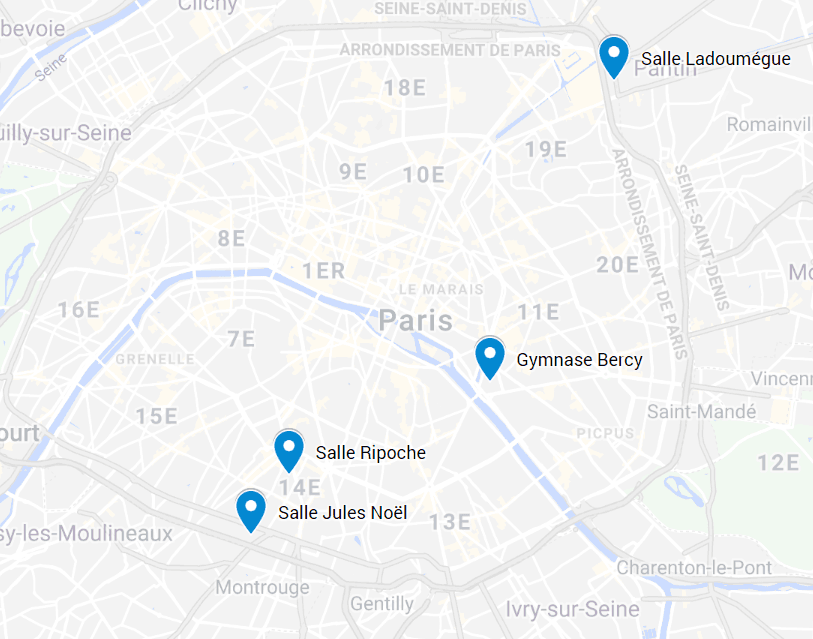
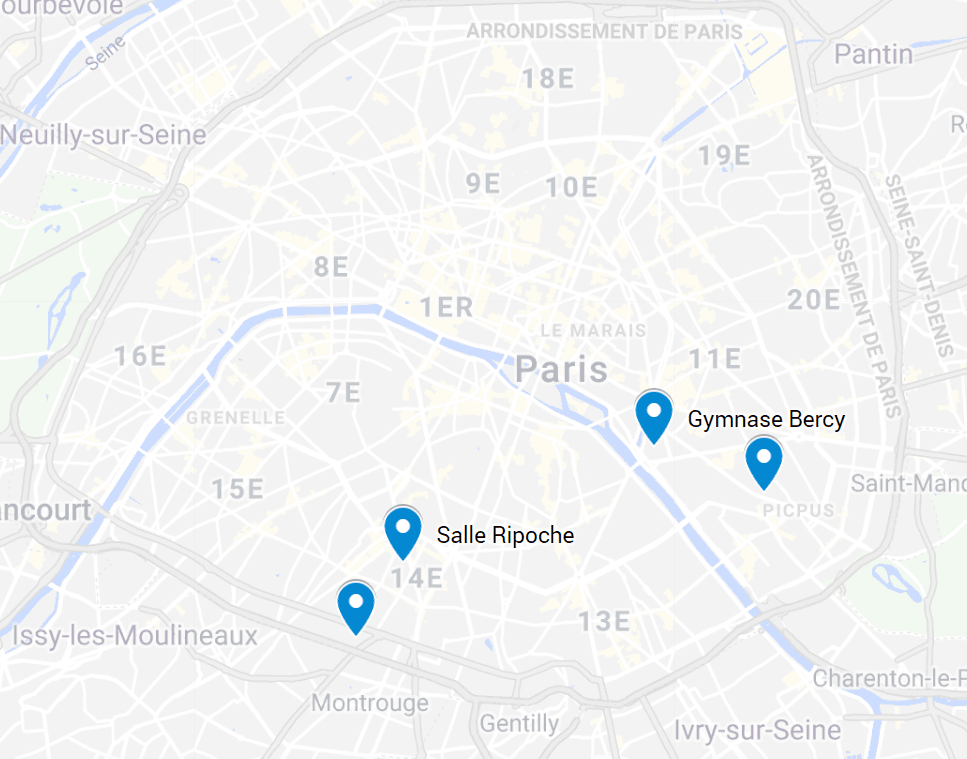
cms: fix new season 2019-2020

diff --git a/src/pages/salles.js b/src/pages/salles.js
@@ -18,9 +18,8 @@ import picJulesnoel02 from '../assets/images/salles/julesnoel-02.jpg'
 import picRipoche01 from '../assets/images/salles/ripoche-01.jpg'
 import picRipoche02 from '../assets/images/salles/ripoche-02.jpg'
 import picRipoche03 from '../assets/images/salles/ripoche-03.jpg'
-import picLadoumegue01 from '../assets/images/salles/ladoumegue-01.jpg'
-import picLadoumegue02 from '../assets/images/salles/ladoumegue-02.jpg'
-import picLadoumegue03 from '../assets/images/salles/ladoumegue-03.jpg'
+import picReuilly01 from '../assets/images/salles/reuilly-01.jpg'
+import picReuilly02 from '../assets/images/salles/reuilly-02.jpg'
 
 import thumbBercy01 from '../assets/images/salles/thumb/bercy-01.jpg'
 import thumbBercy02 from '../assets/images/salles/thumb/bercy-02.jpg'
@@ -29,9 +28,8 @@ import thumbJulesnoel02 from '../assets/images/salles/thumb/julesnoel-02.jpg'
 import thumbRipoche01 from '../assets/images/salles/thumb/ripoche-01.jpg'
 import thumbRipoche02 from '../assets/images/salles/thumb/ripoche-02.jpg'
 import thumbRipoche03 from '../assets/images/salles/thumb/ripoche-03.jpg'
-import thumbLadoumegue01 from '../assets/images/salles/thumb/ladoumegue-01.jpg'
-import thumbLadoumegue02 from '../assets/images/salles/thumb/ladoumegue-02.jpg'
-import thumbLadoumegue03 from '../assets/images/salles/thumb/ladoumegue-03.jpg'
+import thumbReuilly01 from '../assets/images/salles/thumb/reuilly-01.jpg'
+import thumbReuilly02 from '../assets/images/salles/thumb/reuilly-02.jpg'
 
 const BERCY_IMAGES = [
   {id: 'bercy01', src: picBercy01, thumbnail: thumbBercy01},
@@ -49,10 +47,9 @@ const RIPOCHE_IMAGES = [
   {id: 'ripoche03', src: picRipoche03, thumbnail: thumbRipoche03},
 ];
 
-const LADOUMEGUE_IMAGES = [
-  {id: 'ladoumegue01', src: picLadoumegue01, thumbnail: thumbLadoumegue01},
-  {id: 'ladoumegue02', src: picLadoumegue02, thumbnail: thumbLadoumegue02},
-  {id: 'ladoumegue03', src: picLadoumegue03, thumbnail: thumbLadoumegue03},
+const REUILLY_IMAGES = [
+  {id: 'reuilly01', src: picReuilly01, thumbnail: thumbReuilly01},
+  {id: 'reuilly02', src: picReuilly02, thumbnail: thumbReuilly02},
 ];
 
 class Salles extends React.Component {
@@ -99,18 +96,18 @@ class Salles extends React.Component {
           thumbnail,
         }))
       }, {
-        id: 'ladoumegue',
-        name: 'Ladoumègue',
-        street: '39 route des Petits Ponts 75019 Paris',
-        zipCode: '75010',
-        city: 'PARIS',
-        transport: 'Hoche (ligne 5) ou Tramway T3b Delphine Seyrig',
-        googleMaps: 'https://www.google.com/maps/embed?pb=!1m18!1m12!1m3!1d2623.190508594432!2d2.394769315675603!3d48.89270637929095!2m3!1f0!2f0!3f0!3m2!1i1024!2i768!4f13.1!3m3!1m2!1s0x47e66db4611a10a9%3A0xd213a1da1d00916f!2s39+Route+des+Petits+Ponts%2C+75019+Paris!5e0!3m2!1sfr!2sfr!4v1564334195927!5m2!1sfr!2sfr',
-        images: LADOUMEGUE_IMAGES.map(({id, src, thumbnail}) => ({
-          src,
-          thumbnail,
-        }))
-      }];
+      id: 'reuilly',
+      name: 'Reuilly diderot',
+      street: '43 Allée Vivaldi',
+      zipCode: '75012',
+      city: 'PARIS',
+      transport: 'Ligne 6 Métro Dugommier ou Ligne 8 Métro Montgallet',
+      googleMaps: 'https://www.google.com/maps/embed?pb=!1m18!1m12!1m3!1d2625.8658238825124!2d2.3865663145800498!3d48.84169797928585!2m3!1f0!2f0!3f0!3m2!1i1024!2i768!4f13.1!3m3!1m2!1s0x47e6726cc5d410cd%3A0x33802cac89a6ed60!2s43+All%C3%A9e+Vivaldi%2C+75012+Paris-12E-Arrondissement!5e0!3m2!1sfr!2sfr!4v1532900237396',
+      images: REUILLY_IMAGES.map(({id, src, thumbnail}) => ({
+        src,
+        thumbnail,
+      }))
+    }];
   }
 
   _handleWaypointEnter = () => {
@@ -144,12 +141,12 @@ class Salles extends React.Component {
             <header className="major">
               <h1>Les salles</h1>
               <p>
-                Voici les adresses des différentes salles parisiennes (dans le 12ème / 14ème / 20ème),
-                permet de pratiquer la Savate Boxe Française.
+                Voici les adresses des différentes salles parisiennes (dans le 12ème / 14ème),
+                pour  pratiquer la Savate Boxe Française avec nous.
               </p>
-              <p>
-                <span className="image main"><img src={picSalles} alt="salles"/></span>
-              </p>
+              <div className="map-responsive">
+                <iframe src="https://www.google.com/maps/d/u/0/embed?mid=17caxVnwoGG92sTQfPtVU9MuD6ett4Jdt" width="640" height="480"></iframe>
+              </div>
             </header>
 
             <SallesSwipe salles={this.salles}/>

diff --git a/src/pages/planning.js b/src/pages/planning.js
@@ -84,6 +84,10 @@ class Planning extends React.Component {
                 de la séance pour vous changer.
               </p>
 
+              <p>
+                <span><img className="image main" src={picHoraires} alt="horaires"/></span>
+              </p>
+
               <div>
                 <table>
                   <thead>
@@ -91,38 +95,57 @@ class Planning extends React.Component {
                     <th>Jour</th>
                     <th>Horaire</th>
                     <th>Salle</th>
+                    <th>Description</th>
                   </tr>
                   </thead>
                   <tbody>
                   <tr>
                     <td>Lundi</td>
-                    <td>19:00 - 21:30</td>
+                    <td>19:30 - 21:30</td>
                     <td>Bercy</td>
+                    <td>Savate tout niveau</td>
                   </tr>
                   <tr>
                     <td>Mardi</td>
-                    <td>20:45 - 22:00</td>
+                    <td>20:30 - 22:00</td>
                     <td>Jules Noël</td>
+                    <td>Savate tout niveau</td>
                   </tr>
                   <tr>
                     <td>Mercredi</td>
-                    <td>19:00 - 21:30</td>
+                    <td>19:00 - 20:00</td>
                     <td>Bercy</td>
+                    <td>Savate compétiteurs</td>
+                  </tr>
+                  <tr>
+                    <td></td>
+                    <td>20:00 - 21:30</td>
+                    <td>Bercy</td>
+                    <td>Savate tout niveau</td>
                   </tr>
                   <tr>
                     <td>Jeudi</td>
-                    <td>18:30 - 20:30</td>
+                    <td>18:30 - 19:00</td>
                     <td>Ripoche</td>
+                    <td>Préparation physique</td>
+                  </tr>
+                  <tr>
+                    <td></td>
+                    <td>19:00 - 20:30</td>
+                    <td>Ripoche</td>
+                    <td>Savate tout niveau</td>
                   </tr>
                   <tr>
                     <td>Vendredi</td>
-                    <td>19:00 - 21:30</td>
-                    <td>Ladoumègue</td>
+                    <td>19:00 - 20:30</td>
+                    <td>Reuilly</td>
+                    <td>Savate tout niveau</td>
                   </tr>
                   <tr>
                     <td>Samedi</td>
                     <td>10:00 - 12:00</td>
                     <td>Bercy</td>
+                    <td>Savate tout niveau</td>
                   </tr>
                   </tbody>
                   <tfoot>
@@ -130,9 +153,6 @@ class Planning extends React.Component {
                 </table>
               </div>
 
-              <p>
-                <span><img className="image main" src={picHoraires} alt="horaires"/></span>
-              </p>
             </div>
 
           </section>

diff --git a/src/pages/inscription.js b/src/pages/inscription.js
@@ -49,15 +49,14 @@ class Inscription extends React.Component {
             <header className="major">
               <h1>Inscription</h1>
               <p>
-                Vous êtes les bienvenus pour participer à un cours d’essai, il suffit de vous présenter
-                avec une tenue de sport à l’un des cours hebdomadaires. Venez avec une tenue de sport et
-                des baskets propres, nous prêtons les gants ! Pour cela un simple sms au 07 77 86 30 43
-                pour confirmer votre présence suffit.
+                Vous êtes les bienvenus pour participer à un cours d’essai. Pour cela un simple sms au 07 77 86 30 43
+                pour confirmer votre présence suffit. Venez avec une tenue de sport et des baskets propres, nous prêtons
+                les gants :)
               </p>
 
               <p>
                 L&apos;inscription vous donne accès à l&apos;intégralité de nos cours qui sont dispensés dans nos
-                différentes salles parisiennes ( 12ème / 14ème / 20ème ).
+                différentes salles parisiennes ( 12ème / 14ème).
               </p>
 
             </header>
